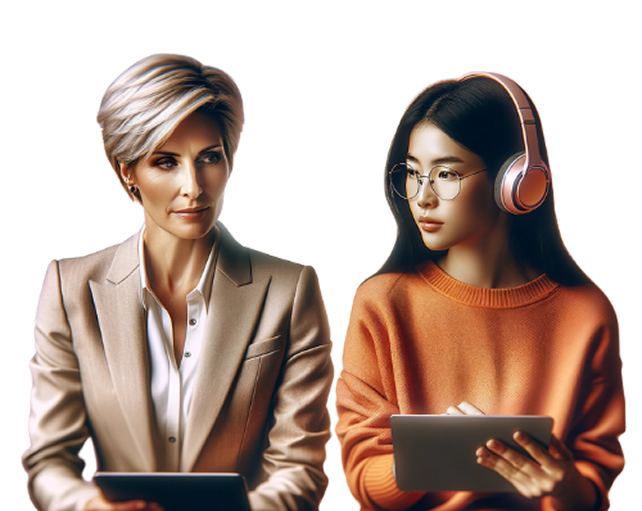
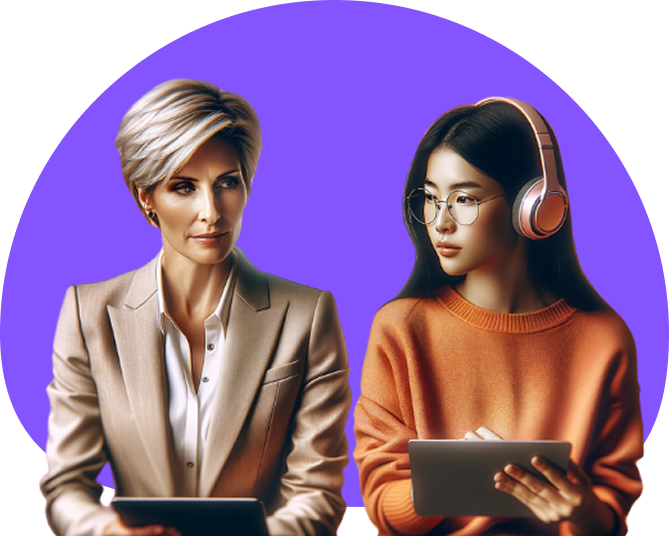
Criando as variaveis de cores e ajustando tamanho de imagens

diff --git a/src/app/components/home/home.component.scss b/src/app/components/home/home.component.scss
@@ -1,3 +1,5 @@
+@import "../../../color-variable.scss";
+
 .main-section{
   display: flex;
   justify-content: center;
@@ -5,15 +7,17 @@
   flex-direction: column;
 
   font-family: "Roboto", sans-serif;
+  padding: 0 70px;
   span {
     font-size: 20px;
     font-weight: 700;
+    color: $secundary-text;
   }
 
   h1{
     font-size: 72px;
     font-weight: 900;
-
+    color: $primary-text;
   }
 }
 

diff --git a/src/color-variable.scss b/src/color-variable.scss
@@ -1,0 +1,5 @@
+$primary-text: #0F172A;
+$secundary-text: #475569;
+$primary-color: #8455FF;
+$secundary-color: #5222D0;
+$light-primary-color: #B79FF7;
